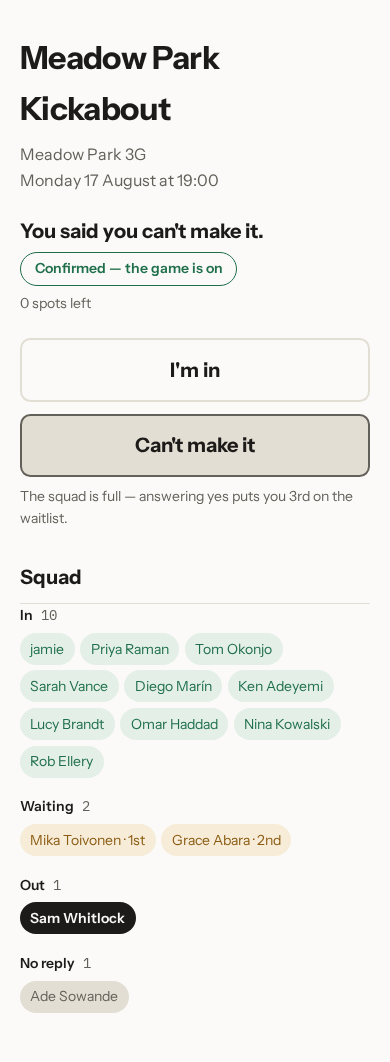
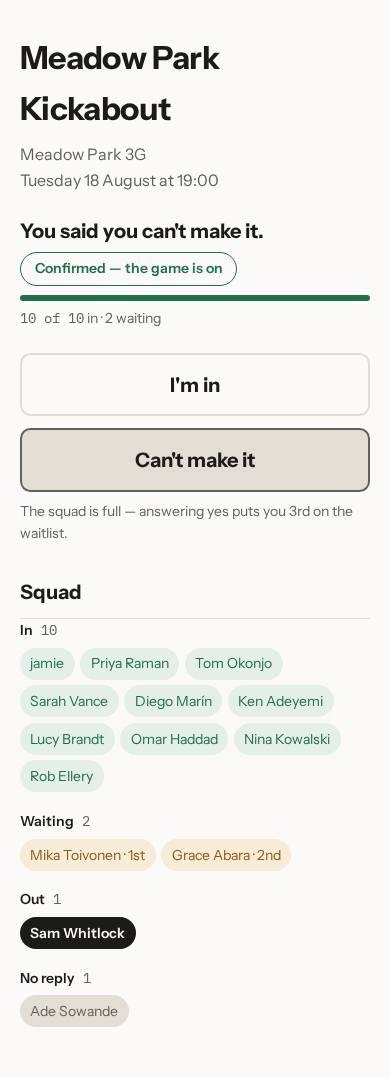
docs: regenerate the guide for the M12 visual pass, and fix what it now says
Every P1 screen changed shape, so all 23 committed screenshots showed the old
UI. Re-captured at 390px, and corrected the prose that described a layout the
app no longer has:

- "0 spots left" is gone from `src/` entirely — M12 §3.1 replaced it with a
  capacity bar. Chapters 3 and 7 both explained the old sentence to a reader
  looking at a bar, and `guide-world.ts` carried the same wording in a comment
  pinning the world's numbers.
- The QR code is behind a "Show the QR code" disclosure now, not always on the
  page. Corrected in chapters 1, 2 and 5 — including "Replace this link under
  the QR code", which is under nothing of the sort.
- The join page puts the form above the squad chips, so chapter 2's
  "Below that, Who's playing" had the page the wrong way round.
- `guide-shots.ts`'s account note said the email sits "beside" the name field;
  it is a read-out under a Signing in heading.

`known-issues.md`'s odd-`max_players` row is reworded, not closed: the
contradiction it names is live, and `renderNudge` still fires on the `uneven`
flag with no reference to whether the fixture is full. Only the symptom's
description changed, because it quoted a string the app can no longer emit and
would have read as fixed to anyone grepping for it.

Claude-Session: https://claude.ai/code/session_01WzHAQF3vBYdjm3A3hw2Jkt

diff --git a/test/browser/guide-world.ts b/test/browser/guide-world.ts
@@ -141,7 +141,8 @@ export interface GuideWorld {
    * demonstrate an owner's mark-in and guest-add (Task 8's three new shots).
    * It cannot reuse the main fixture: every other chapter has already
    * committed exact numbers to that fixture (chapter 1's "ten people in",
-   * chapter 3's "0 spots left" and Ade Sowande shown as not yet responded,
+   * chapter 3's "10 of 10 in · 2 waiting" and Ade Sowande shown as not yet
+   * responded,
    * chapter 6's headcount on the cancellation page), and the member who
    * never answers there is *the* Ade Sowande those chapters name. Marking
    * him in here would quietly falsify all of them on the next capture. A

diff --git a/docs/known-issues.md b/docs/known-issues.md
@@ -94,7 +94,7 @@ broken, and if the answer is "exactly like this", add the assertion that would d
 | `nodejs_compat` is enabled in `wrangler.jsonc` with no Node builtin used in `src/`. | Harmless, and likely needed by later milestones. |
 | `test/index.test.ts` asserts the schema-derived fixture count in two places, so changing the materialisation horizon needs edits across four test files. | A shared expected-count constant in `test/support/` would localise it. |
 | ~~A `withdrawn` player presenting a still-valid response token could flip back to `in`: the Durable Object's lookup of the player's existing response row does not exclude `withdrawn`.~~ | **Closed by J6b's whole-branch review fix wave, 14 August 2026.** `setResponse`'s existing-row lookup now skips a `withdrawn` row (`src/capacity/fixture-capacity.ts`), so a removed player is answered with `not-eligible` — which is exactly what that reason means — and their row stays `withdrawn`. Both doors are shut by the one change: the old response link still sitting in the removed player's inbox, and J6b's new owner-override route, neither of which checks membership itself. Pinned by "a withdrawn player" in `test/capacity/set-response.test.ts` and "an override for a removed player" in `test/routes/owner-fixture.test.ts`. The note's second ask — a promotion pass for BR-3 — was already met by `withdrawMember`, which frees the slot and promotes in its own batch rather than inheriting `setResponse`'s. **The history below is kept because the defect was live in production from 13 August, when J6a's removal began writing `withdrawn`, until this fix.** _Original note:_ No longer unreachable — found while writing J6b's guide chapter, not fixed here (see this file's own rule about not smuggling code changes into a docs task). J6a shipped BR-3: `removeMember` → `withdrawMember` (`src/capacity/fixture-capacity.ts`) now writes `status: "withdrawn"` on every open fixture a removed player held a slot on. `setResponse`'s existing-row lookup (`src/capacity/fixture-capacity.ts:85`, `const existing = all.find((r) => r.playerId === input.playerId)`) still matches that row regardless of status, and `POST /r/:token` (`src/routes/respond.ts`) calls `setResponse` directly with no squad-membership check of its own — `not-eligible` only fires when *no* row exists at all. So a player removed after their reminder was sent, but before their response token expires, can still tap **I'm in** on the email they already have and be recorded `in` again, on a fixture the owner believed they were taken off. This is exactly the gap the original note named; what changed is that the code path making it real now exists. Still needs: exclude `withdrawn` from the existing-row lookup, and (per the original note) a promotion pass of its own, since BR-3 writes `withdrawn` outside `setResponse` and does not inherit BR-7's. |
-| A waitlisted viewer on a fixture with an odd `max_players` can see "0 spots left" alongside "one more would even it up" simultaneously. | Same root cause as the odd-`max_players` item above (Part 3, open item 6). |
+| A waitlisted viewer on a fixture with an odd `max_players` can see a full capacity bar — "11 of 11 in · 2 waiting" — alongside "The squad has an odd number of players in — one more would even it up" simultaneously. **Wording corrected 17 August 2026 (M12 Task 11); the defect itself is unchanged and still open.** The symptom used to be written in terms of "0 spots left", which M12 §3.1 replaced with the bar (`renderCapacity`, `src/views/fixture.ts`); that string is now absent from `src/` entirely, so the old sentence named something the app cannot emit and would read to anybody grepping for it as though the issue had gone. It has not: `renderNudge` still fires on the `uneven` flag alone, with no reference to whether the fixture is full. | Same root cause as the odd-`max_players` item above (Part 3, open item 6). |
 | The organiser's fixture page can render two filled `.button.primary` at once — `renderConfirm`'s "Add them anyway" (`src/views/owner-fixture.ts:169`) and the team picker's "Publish teams" — against M12 §2.2, "one primary action per screen". | **Left deliberately, 17 August 2026, author's call.** The two gates are independent with no mutual exclusion: `renderConfirm` fires on `params.confirm !== undefined`; `renderPublish` on `takingChanges(view)` **and** (`published`, or `needsAnotherLook`, or any member already has a team). Both hit when an organiser over-fills a fixture that is still taking changes and already has a started pick. **Both buttons are `--accent`; neither is `--danger`**, so §0.8's colour-safety rule — the one that keeps a deuteranope from having to read the label instead of the colour — is not implicated. This is hierarchy only, the milder of the two failures. M12 improved the state from three fills to two by demoting "Save teams". It went no further because the properly correct answer is conditional — Publish demotes *while* a confirm is pending — which is behaviour rather than presentation, and so barred by that milestone's own constraint against feature changes; while demoting "Add them anyway" instead would make the question the screen is actively asking quieter than a background action. Needs a product decision, not a CSS class. |
 | `src/routes/respond.ts` re-derives "not eligible" / "not open" from lifecycle and squad membership independently of the Durable Object's own rejection reason. The two agree today, but nothing pins them together. | No observed drift; would benefit from a shared invariant or a mapping test if the two ever diverge. |
 | `notification_log.dedupe_key` builders have no structural defence against a colon-containing or empty id. | Unreachable — every id in the system is `crypto.randomUUID()`. |

diff --git a/docs/guide/02-inviting-your-squad.md b/docs/guide/02-inviting-your-squad.md
@@ -16,28 +16,34 @@ addresses to type in. One link does everyone.
 
 ## The QR code
 
-![A QR code for the same invite link](images/invite-qr.png)
+![The Show the QR code line on the game page, opened to reveal a QR code for the same invite link](images/invite-qr.png)
 
-Underneath is the same link as a QR code, for the people standing in front of
-you. Hold your phone up at the end of a game and let them point their cameras
-at it — quicker than spelling out an address in a car park.
+Underneath the link is a line reading **Show the QR code**. Tap it and the
+same link opens up as a code, for the people standing in front of you. Hold
+your phone up at the end of a game and let them point their cameras at it —
+quicker than spelling out an address in a car park. Tap the line again and it
+folds away, so the game page isn't carrying a code you only need now and then.
 
 ## What a player sees
 
-![The join page: the game's details, who's already playing, and boxes for a name and an email address](images/join.png)
+![The join page: the game's details, boxes for a name and an email address, and who's already playing underneath](images/join.png)
 
 This is where the link takes them. They don't have to sign up for anything to
 get here.
 
 The top of the page tells them what they're joining: the Meadow Park Kickabout,
 played at Meadow Park 3G every week at 19:00 for sixty minutes, 8 to 10
-players, and when the next one is. Below that, **Who's playing (14)** shows the
-squad they'd be joining — first names and an initial, so nobody's full name is on a page
-anyone with the link can open.
+players, and when the next one is.
 
-To join, they put in a name and an email address and tap **Join the squad**.
-The address is the whole point: it's how they get told when there's a game on.
-There's no password and nothing else to fill in.
+Then comes the only thing they have to do. Under **Join the squad** they put
+in a name and an email address and tap the button. The address is the whole
+point: it's how they get told when there's a game on. There's no password and
+nothing else to fill in.
+
+Under that, **Who's playing (14)** shows the squad they'd be joining — first
+names and an initial, so nobody's full name is on a page anyone with the link
+can open. It sits below the form rather than above it because it's what they
+read while deciding, not something to scroll past on the way to joining.
 
 Once they've joined, their name appears in your squad and they'll get the
 reminder for the next fixture along with everyone else.

diff --git a/docs/guide/01-setting-up-a-game.md b/docs/guide/01-setting-up-a-game.md
@@ -38,13 +38,14 @@ Tap **Create the game** and it exists.
 
 ## Your game
 
-![The game page, showing the invite link, a QR code, a squad of fourteen and the fixtures coming up](images/game-overview.png)
+![The game page, showing the invite card, a squad of fourteen and the fixtures coming up](images/game-overview.png)
 
 This page is the game's home, and it's where you'll come back to.
 
 At the top is the name, the pitch and the address, with **Edit this game** for
-when any of that changes. Under **Invite people** is the link to share and the
-same link as a QR code — that's chapter 2.
+when any of that changes. **Invite people** is a card of its own, holding the
+link to share, a **Show the QR code** line that opens the same link as a code
+when you want it, and **Replace this link** — that's chapter 2.
 
 **Squad (14)** lists everyone who has joined. This game has fourteen people in
 it, with jamie marked as the organiser — that's you, because you set it up.

diff --git a/docs/guide/03-answering-a-reminder.md b/docs/guide/03-answering-a-reminder.md
@@ -16,8 +16,10 @@ Tapping either button in the email brings you here, and nothing has been
 recorded yet: the page asks **Can you make it?** and waits for you.
 
 **Confirmed — the game is on** means enough people have already said yes for
-the game to go ahead. Beside it, **0 spots left** is how many places are still
-free — none, in this one, which is what the waitlist below is about. Because
+the game to go ahead. Under it, a bar fills up as people answer, with the
+count spelled out beneath it — **10 of 10 in · 2 waiting**. The bar is full
+and two people are already queued behind it, which is what the waitlist below
+is about. Because
 there's no room, the page says so under the two buttons, before you tap
 either of them: **The squad is full — answering yes puts you 3rd on the
 waitlist.** When your organiser

diff --git a/docs/guide/07-your-own-fixtures.md b/docs/guide/07-your-own-fixtures.md
@@ -13,8 +13,9 @@ Signing in shows your fixtures as cards, nearest first.
 
 Each card carries the same facts as the email: the Meadow Park Kickabout,
 Meadow Park 3G, the date and 19:00. **Confirmed — the game is on** means enough
-people have said yes. **0 spots left** means the places are taken. **You're
-in** is your own answer.
+people have said yes. The bar under it fills as people answer, and the count
+beneath it — **10 of 10 in · 2 waiting** — says every place is taken with two
+more queued behind. **You're in** is your own answer.
 
 The game's name at the top of the card is a link. Tap it to see that game on
 its own — where it's played, who else is playing if the organiser shows that,

diff --git a/docs/guide/05-running-your-squad.md b/docs/guide/05-running-your-squad.md
@@ -228,8 +228,8 @@ a record of who was on which side. The controls go; the pick doesn't.
 ## Replacing the invite link
 
 If the link ends up somewhere you'd rather it hadn't — a public group, a work
-channel, a stranger's phone — **Replace this link** under the QR code on the
-game page gives you a fresh one. The old link stops working immediately, so
+channel, a stranger's phone — **Replace this link**, at the bottom of the
+**Invite people** card on the game page, gives you a fresh one. The old link stops working immediately, so
 share the new one with anybody still waiting to join. People already in the
 squad aren't affected.
 
